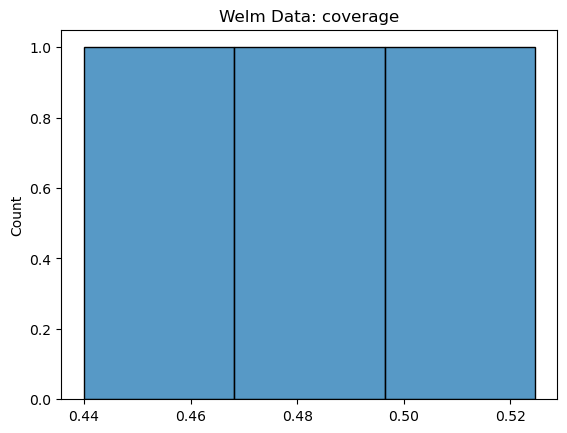
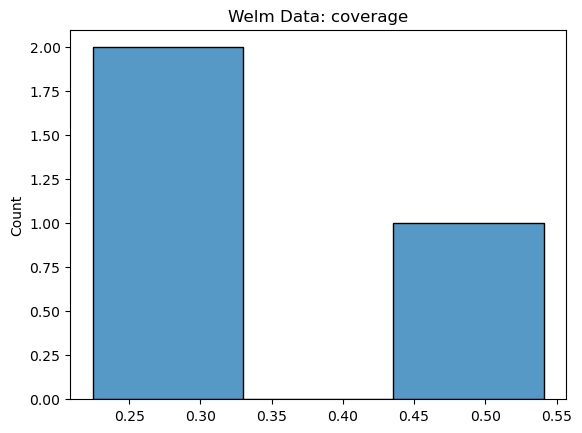
now vectorized model runs; see vec_test_evaluation.sh to test

diff --git a/pyro_model/code/test_evaluation.py b/pyro_model/code/test_evaluation.py
@@ -81,10 +81,10 @@ def get_synthetic_data(directory, n_total_obs=None):
 	obs_train, obs_test = generate_data(n_samp, n_drug, s_idx, d_idx, s_test_idx, d_test_idx)
 	return n_samp, n_drug, s_idx, d_idx, s_test_idx, d_test_idx, obs_train, obs_test
 
-def draw_mcmc_samples(kernel, n_samp, n_drug, s_idx, d_idx, params, obs_train, n_mcmc, n_warmup, initial_params=None):
+def draw_mcmc_samples(kernel, n_samp, n_drug, s_idx, d_idx, params, obs_train, n_mcmc, n_warmup, initial_params=None, k=1):
 	n_train = len(s_idx)
 	mcmc = pyro.infer.MCMC(kernel, num_samples=n_mcmc, warmup_steps=n_warmup, initial_params=initial_params)
-	mcmc.run(n_samp, n_drug, s_idx, d_idx, params, obs=obs_train, n_obs=n_train)
+	mcmc.run(n_samp, n_drug, s_idx, d_idx, params, obs=obs_train, n_obs=n_train, k=k)
 	mcmc_samples = {k: v.detach().cpu().numpy() for k, v in mcmc.get_samples().items()}
 	return mcmc_samples
 
@@ -144,6 +144,15 @@ def get_mcmc_samples_with_simple_thinning(n_samp, n_drug, s_idx, d_idx, params, 
 	thinned_samples = simple_thinning(mcmc_samples, n_draw, n_mcmc, thinning)
 	return thinned_samples
 
+def vec_get_mcmc_samples_with_simple_thinning(n_samp, n_drug, s_idx, d_idx, params, obs_train, n_mcmc, n_warmup, thinning, k):
+	# number of total samples to draw, which will be thinned out
+	kernel = pyro.infer.mcmc.NUTS(modeling.vectorized_model, jit_compile=True)
+	n_draw = n_mcmc * thinning
+	mcmc_samples = draw_mcmc_samples(kernel, n_samp, n_drug, s_idx, d_idx, params, obs_train, n_draw, n_warmup, initial_params=None, k=k)
+	# thin samples
+	thinned_samples = simple_thinning(mcmc_samples, n_draw, n_mcmc, thinning)
+	return thinned_samples
+
 # n_mcmc is the number of samples desired
 # thinning is the number of draws from the mcmc between returned samples
 def get_mcmc_samples_with_thinning(n_samp, n_drug, s_idx, d_idx, params, obs_train, n_mcmc, n_warmup, thinning):
@@ -170,6 +179,12 @@ def get_mcmc_samples_with_thinning(n_samp, n_drug, s_idx, d_idx, params, obs_tra
 
 def evaluation(mcmc_samples, s_test_idx, d_test_idx, obs_test, hi, lo):
 	mu, sigma = evaluate.predict(mcmc_samples, s_test_idx, d_test_idx)
+	r_sq = evaluate.r_squared(mu, obs_test)
+	coverage = evaluate.coverage(mu, sigma, obs_test, hi, lo)
+	return r_sq, coverage
+
+def vec_evaluation(mcmc_samples, s_test_idx, d_test_idx, obs_test, hi, lo, n_mcmc, n_samp, n_drug, k):
+	mu, sigma = evaluate.vectorized_predict(mcmc_samples, s_test_idx, d_test_idx, n_mcmc, n_samp, n_drug, k)
 	r_sq = evaluate.r_squared(mu, obs_test)
 	coverage = evaluate.coverage(mu, sigma, obs_test, hi, lo)
 	return r_sq, coverage
@@ -208,10 +223,11 @@ def retrieve_args(args):
 	thinning = int(args[6].split("=")[1])
 	directory = args[7].split("=")[1]
 	use_real_data = bool(int(args[8].split("=")[1]))
+	k = int(args[9].split("=")[1])
 	input_args = {'data_dir': data_dir, 'n_total_obs': n_total_obs, 'n_mcmc': n_mcmc, 'n_warmpup': n_warmup, 'n_iter': n_iter, 'thining': thinning,
-	    'directory': directory, 'use_real_data': use_real_data}
+	    'directory': directory, 'use_real_data': use_real_data, 'k': k}
 	helpers.write_to_pickle(input_args, directory + '/input_args.pkl')
-	return data_dir, n_total_obs, n_mcmc, n_warmup, n_iter, thinning, directory, use_real_data
+	return data_dir, n_total_obs, n_mcmc, n_warmup, n_iter, thinning, directory, use_real_data, k
 
 def main():
 	helpers.check_args(sys.argv, 9)
@@ -250,5 +266,43 @@ def main():
 	histogram_r_sq(r_sq_fn, r_sq_plot_fn, use_real_data)
 	histogram_coverage(cov_fn, cov_plot_fn, use_real_data)
 
+def vectorized_main():
+	helpers.check_args(sys.argv, 10)
+	data_dir, n_total_obs, n_mcmc, n_warmup, n_iter, thinning, directory, use_real_data, k = retrieve_args(sys.argv)
+    # define file fns
+	r_sq_fn = directory + '/r_squared.txt'
+	cov_fn = directory + '/coverage.txt'
+	r_sq_list = []
+	cov_list = []
+	# decide whether to use real or synthetic data
+	for seed in range(n_iter):
+		pyro.set_rng_seed(seed)
+		pyro.clear_param_store()
+		# split dataset
+		data_fn = data_dir + '/welm_pdx_clean_mid_volume.csv'
+		split_dir = data_dir + '/split'
+		split_helpers.split_dataset(data_fn, split_dir)
+		if use_real_data:
+			n_samp, n_drug, s_idx, d_idx, s_test_idx, d_test_idx, obs_train, obs_test = get_real_data(split_dir)
+		else:
+			n_samp, n_drug, s_idx, d_idx, s_test_idx, d_test_idx, obs_train, obs_test = get_synthetic_data(split_dir, n_total_obs)
+		# fit model to synthetic data
+		mcmc_samples = vec_get_mcmc_samples_with_simple_thinning(n_samp, n_drug, s_idx, d_idx, const.PARAMS, obs_train, n_mcmc, n_warmup, thinning=thinning, k=k)
+		# evaluate vs test set
+		r_sq, cov = vec_evaluation(mcmc_samples, s_test_idx, d_test_idx, obs_test, const.HI, const.LO, n_mcmc, n_samp, n_drug, k)
+		r_sq_list.append(r_sq)
+		cov_list.append(cov)
+		np.savetxt(r_sq_fn, np.array(r_sq_list))
+		np.savetxt(cov_fn, np.array(cov_list))
+	print('r-squared:')
+	print(r_sq_list)
+	print('coverage:')
+	print(cov_list)
+	r_sq_plot_fn = directory + '/r_squared_plot.png'
+	cov_plot_fn = directory + '/coverage_plot.png'
+	histogram_r_sq(r_sq_fn, r_sq_plot_fn, use_real_data)
+	histogram_coverage(cov_fn, cov_plot_fn, use_real_data)
+
 if __name__ == "__main__":
-	main()
+	#main()
+	vectorized_main()

diff --git a/pyro_model/code/eval_helpers.py b/pyro_model/code/eval_helpers.py
@@ -42,15 +42,17 @@ def vectorized_predict(mcmc_samples, s_test_idx, d_test_idx, n_mcmc, n_samp, n_d
     print('n_samp: ' + str(n_samp))
     assert (s.shape[0] == m) and (s.shape[1] == k) and (s.shape[2] == n_samp)
     assert (d.shape[0] == m) and (d.shape[1] == k) and (d.shape[2] == n_drug) 
-    assert (a.shape[0] == m) and (a.shape[1] == 1)
+    assert (a.shape[0] == m)
+    a = a.reshape((m, 1))
     # combine above matrices to create mu
     # to create mu, multiply s and d together
     # get array with n
     s = np.transpose(s, (0, 2, 1))
     mat = np.matmul(s, d)
-    mu = mat[:, s_test_idx, d_test_idx] + a
+    mu = mat[:, s_test_idx, d_test_idx] + np.tile(a, (1, n))
     assert (mu.shape[0] == m) and (mu.shape[1] == n)
-    assert (sigma.shape[0] == m) and (sigma.shape[1] == 1)
+    assert (sigma.shape[0] == m)
+    sigma = sigma.reshape((m, 1))
     return mu, sigma
 
 def r_squared(mu, test):
